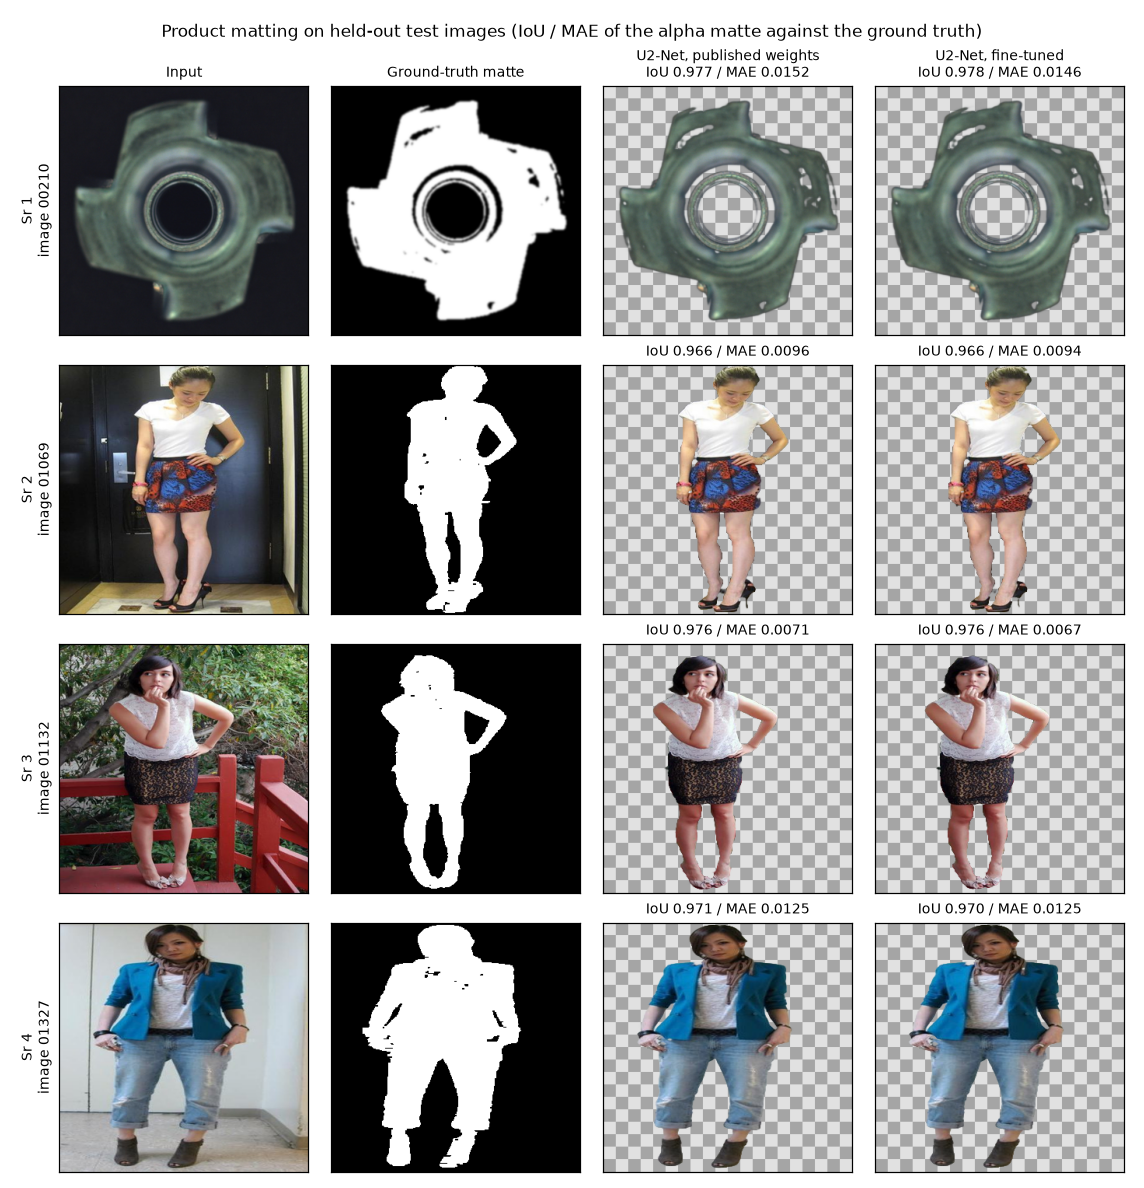
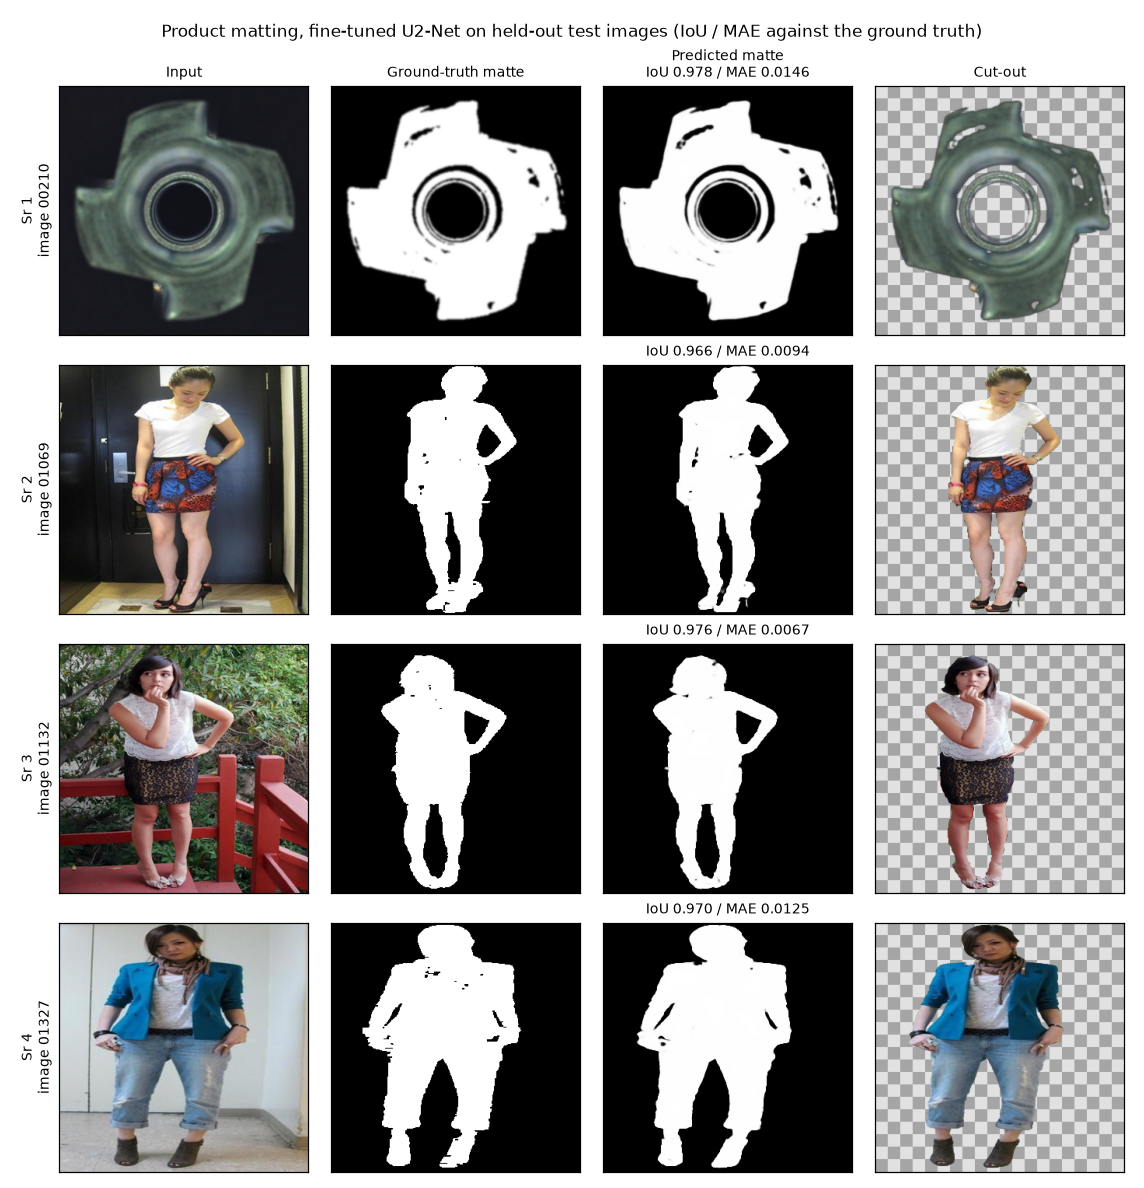
Matting figure: drop the mislabelled before column
The *_before_* samples are written when a run starts or resumes. This run resumed:
before_val IoU 0.9621 equals the epoch-55 history entry, so those images are a
mid-run checkpoint, not the published U2-Net weights.

diff --git a/docs/make_figures.py b/docs/make_figures.py
@@ -89,23 +89,24 @@ def defect_figure():
 
 
 def matting_figure():
+    # The samples/ folder also holds *_before_* files. They are not shown: the training
+    # script writes them when a run starts or resumes, and this run resumed (its
+    # before_val IoU 0.9621 equals the epoch-55 history entry), so they are a mid-run
+    # checkpoint, not the published U2-Net weights.
     s = ROOT / "product-matting" / "samples"
     picks = ["00210", "01069", "01132", "01327"]
     rows = []
     for stem in picks:
         truth = load(s / f"{stem}_ground_truth.png")
-        before = load(s / f"{stem}_before_alpha.png")
         after = load(s / f"{stem}_after_alpha.png")
         rows.append((f"image {stem}", [
             (load(s / f"{stem}_input.png"), ""),
             (truth, ""),
-            (on_checker(load(s / f"{stem}_before_cutout.png")),
-             f"IoU {iou(before, truth):.3f} / MAE {mae(before, truth):.4f}"),
-            (on_checker(load(s / f"{stem}_after_cutout.png")),
-             f"IoU {iou(after, truth):.3f} / MAE {mae(after, truth):.4f}"),
+            (after, f"IoU {iou(after, truth):.3f} / MAE {mae(after, truth):.4f}"),
+            (on_checker(load(s / f"{stem}_after_cutout.png")), ""),
         ]))
-    grid(rows, ["Input", "Ground-truth matte", "U2-Net, published weights", "U2-Net, fine-tuned"],
-         "Product matting on held-out test images (IoU / MAE of the alpha matte against the ground truth)",
+    grid(rows, ["Input", "Ground-truth matte", "Predicted matte", "Cut-out"],
+         "Product matting, fine-tuned U2-Net on held-out test images (IoU / MAE against the ground truth)",
          OUT / "product_matting.png")
 
 

diff --git a/README.md b/README.md
@@ -31,7 +31,7 @@ notebooks that produced them, rather than demo screenshots.
 - Scores published weights on official held-out splits (COCO val2017, UCF101
   split 1, DAVIS 2017 val, UCF-Crime test) with leakage checks between splits.
 - Adds a control to each measurement where one exists: raw pixels against
-  learned features, the model before and after fine-tuning, a naive
+  learned features, the published pose score against the measured one, a naive
   whole-video label against multiple-instance learning.
 - Keeps every quoted number in the project's `results.json`.
 
@@ -43,11 +43,10 @@ parts:
 
 ![Defect localisation on four MVTec AD parts](docs/figures/defect_localisation.png)
 
-**Product matting** - held-out test images; the matte from the published U2-Net
-weights against the fine-tuned model, each cut out over a checkerboard with its IoU
-and MAE:
+**Product matting** - held-out test images: the fine-tuned U2-Net's matte (IoU and
+MAE against the ground truth) and the cut-out over a checkerboard:
 
-![Product matting before and after fine-tuning](docs/figures/product_matting.png)
+![Product matting on four test images](docs/figures/product_matting.png)
 
 **Face anonymisation** - CenterFace at detection threshold 0.2 on a crowded street:
 
@@ -60,9 +59,8 @@ The two figures above are built from the committed `samples/` folders by
 
 - **Defect localisation:** pixel AP 0.9839 train / 0.9565 val / 0.9583 test,
   against 0.155 at epoch 0. Test pooled IoU 0.8033, per-image IoU 0.6232.
-- **Product matting:** IoU 0.9903 train / 0.9625 val / 0.9611 test. The published
-  U2-Net weights already scored 0.9621 validation IoU before fine-tuning, so the
-  fine-tune changed the held-out score very little.
+- **Product matting:** IoU 0.9903 train / 0.9625 val / 0.9611 test, MAE 0.0104 on
+  test.
 - **Industrial anomaly, no training:** frozen ResNet-50 features 0.9379 mean image
   AUROC against 0.6700 for raw pixels in the same pipeline; the features are worth
   +0.3292 AUROC on objects and +0.1455 on textures.
